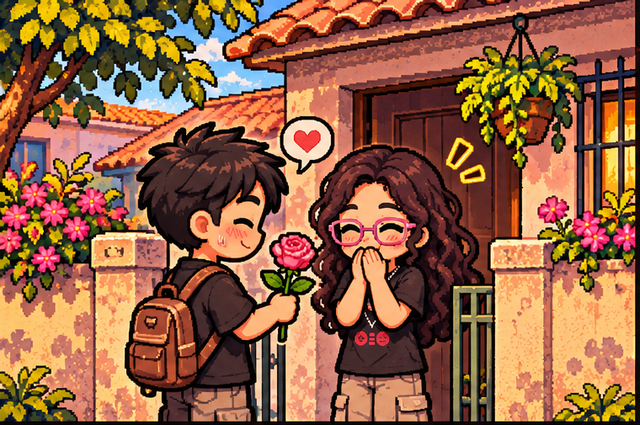
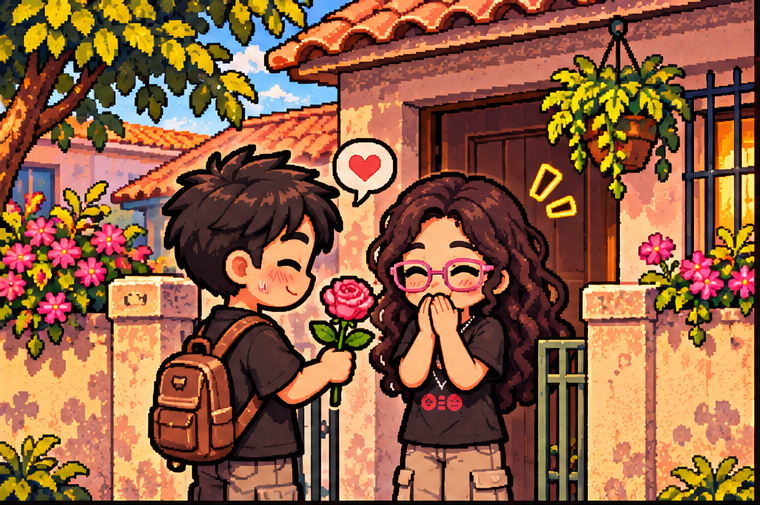
Profundidade nos cenários, cena da mesa ilustrada, viagem de Uber e minigame redesenhados
- Overlays de profundidade: partes do cenário desenhadas na frente de quem
  passa atrás (arco e portão do parque, copas, coreto, postes)
- Coreto: casal dentro do piso, colunas na frente; beijo sem sobreposição
- Mesa da Rota 66 com a ilustração dos dois sentados; Vale Beijo/Abraço e
  chocolates em destaque
- Viagem de Uber: rua de Fragoso rolando, postes, chuva e o carro prata
- Minigame do hambúrguer: balcão, comanda de papel, ingredientes em uma linha
- Avisos não aparecem por cima de telas cheias
- Texturas na UI sem o primeiro quadro recortado (carro inteiro)

Claude-Session: https://claude.ai/code/session_01PDyLU6Huw5amytFREh1vA2

diff --git a/src/ui/styles.css b/src/ui/styles.css
@@ -813,3 +813,130 @@ html, body {
 .item-name { font-family: var(--font-pixel); font-size: clamp(18px, calc(var(--u) * 12), 36px); line-height: 1.05; }
 .item-desc { font-weight: 700; font-size: clamp(12px, calc(var(--u) * 6.5), 20px); color: var(--ink-soft); }
 .item-pop .btn { min-width: 40%; margin-top: calc(var(--u) * 2); }
+
+/* ---------- Viagem (Uber): cena noturna em movimento ---------- */
+.travel-card.tv { z-index: 9; background: #0f0d26; overflow: hidden; display: block; }
+.tv-sky {
+  position: absolute; inset: 0;
+  background:
+    radial-gradient(1px 1px at 12% 18%, #fff8 50%, transparent 51%),
+    radial-gradient(1px 1px at 33% 9%, #fff9 50%, transparent 51%),
+    radial-gradient(1px 1px at 58% 22%, #fff7 50%, transparent 51%),
+    radial-gradient(1px 1px at 81% 12%, #fff9 50%, transparent 51%),
+    radial-gradient(1px 1px at 92% 30%, #fff6 50%, transparent 51%),
+    linear-gradient(#141238, #2a2160 70%, #3b2a6a);
+}
+.tv-city {
+  position: absolute; left: 0; right: 0; top: 8%; height: 62%;
+  background-repeat: repeat-x;
+  background-size: auto 210%;
+  background-position: 0 4%;
+  image-rendering: auto;
+  filter: brightness(0.75) saturate(1.1);
+  animation: tv-scroll 9s linear infinite;
+  mask-image: linear-gradient(transparent, #000 18%);
+}
+@keyframes tv-scroll { from { background-position-x: 0; } to { background-position-x: calc(var(--u) * -680); } }
+.tv-road { position: absolute; left: 0; right: 0; bottom: 0; height: 32%; background: linear-gradient(#3a3946, #2a2933); border-top: calc(var(--u) * 3) solid #8d8576; }
+.tv-lines {
+  position: absolute; left: 0; right: 0; top: 46%; height: calc(var(--u) * 3);
+  background: repeating-linear-gradient(90deg, #f2d36b 0 calc(var(--u) * 22), transparent calc(var(--u) * 22) calc(var(--u) * 44));
+  animation: tv-lines 0.45s linear infinite;
+}
+@keyframes tv-lines { to { background-position-x: calc(var(--u) * -44); } }
+.tv-lamps { position: absolute; inset: 0; pointer-events: none; }
+.tv-lamp {
+  position: absolute; bottom: 31%; width: calc(var(--u) * 3); height: calc(var(--u) * 70);
+  background: #2a2933; animation: tv-lamp 2.2s linear infinite;
+}
+.tv-lamp::before {
+  content: ''; position: absolute; top: calc(var(--u) * -2); left: calc(var(--u) * -6);
+  width: calc(var(--u) * 15); height: calc(var(--u) * 6); border-radius: 40%;
+  background: #ffe9a3; box-shadow: 0 0 calc(var(--u) * 20) calc(var(--u) * 8) rgba(255, 210, 120, 0.45);
+}
+@keyframes tv-lamp { from { left: 110%; } to { left: -10%; } }
+.tv-car {
+  position: absolute; left: 50%; bottom: 13%;
+  width: calc(var(--u) * 150); aspect-ratio: 192 / 128;
+  transform: translateX(-50%);
+  background-size: 400% 100%;
+  background-position: 33.333% 0;
+  image-rendering: pixelated;
+  animation: tv-bump 0.35s ease-in-out infinite;
+  filter: drop-shadow(0 calc(var(--u) * 3) calc(var(--u) * 2) rgba(0, 0, 0, 0.5));
+}
+@keyframes tv-bump { 50% { transform: translate(-50%, calc(var(--u) * -1)); } }
+.tv-rain {
+  position: absolute; inset: 0; pointer-events: none; opacity: 0.55;
+  background-image: repeating-linear-gradient(105deg, transparent 0 calc(var(--u) * 9), rgba(191, 230, 245, 0.55) calc(var(--u) * 9) calc(var(--u) * 9.6));
+  background-size: calc(var(--u) * 40) calc(var(--u) * 40);
+  animation: tv-rain 0.35s linear infinite;
+}
+@keyframes tv-rain { to { background-position: calc(var(--u) * -12) calc(var(--u) * 40); } }
+.tv-label {
+  position: absolute; left: 50%; top: calc(var(--u) * 14); transform: translateX(-50%);
+  font-family: var(--font-pixel); color: var(--ink);
+  font-size: clamp(16px, calc(var(--u) * 11), 34px);
+  padding: calc(var(--u) * 3) calc(var(--u) * 12); white-space: nowrap;
+}
+
+/* ---------- Ilustração de fundo (cenas especiais com diálogo) ---------- */
+#ui .backdrop { position: absolute; inset: 0; z-index: 6; background: #000; opacity: 0; transition: opacity 600ms; pointer-events: none; }
+#ui .backdrop.show { opacity: 1; }
+#ui .backdrop img { width: 100%; height: 100%; object-fit: cover; object-position: 50% 30%; image-rendering: auto; }
+
+/* ---------- Minigame do hambúrguer: layout novo ---------- */
+.bg-panel { width: min(96%, calc(var(--u) * 440)); padding: calc(var(--u) * 4) calc(var(--u) * 6) calc(var(--u) * 5); gap: calc(var(--u) * 3); }
+.bg-title {
+  align-self: center;
+  background: var(--red); color: #fff;
+  padding: calc(var(--u) * 1) calc(var(--u) * 14);
+  border-radius: calc(var(--u) * 2);
+  font-size: clamp(16px, calc(var(--u) * 10), 30px);
+  box-shadow: 0 calc(var(--u) * 1.5) 0 #7a2b3d;
+}
+.bg-main { gap: calc(var(--u) * 5); align-items: stretch; }
+.bg-stage {
+  flex: 1;
+  position: relative;
+  border-radius: calc(var(--u) * 3);
+  background:
+    radial-gradient(ellipse 70% 40% at 50% 15%, rgba(255, 220, 150, 0.35), transparent 70%),
+    linear-gradient(#8c2f2f 0 55%, #6e4526 55% 60%, #b9814f 60% 100%);
+  border: calc(var(--u) * 1) solid var(--border);
+  min-height: calc(var(--u) * 112);
+  display: flex; flex-direction: column; align-items: center; justify-content: flex-end;
+  padding-bottom: calc(var(--u) * 4);
+  overflow: hidden;
+}
+.bg-plate {
+  flex: none; width: 100%; min-height: calc(var(--u) * 88);
+  background: radial-gradient(ellipse 34% 11% at 50% 88%, #f4f0e6 0 75%, #cfc4b0 76% 100%, transparent 101%);
+  padding-bottom: calc(var(--u) * 7);
+}
+.bg-layer { width: calc(var(--u) * 58); margin-top: calc(var(--u) * -24); }
+.bg-msg {
+  position: absolute; top: calc(var(--u) * 4); left: 50%; transform: translateX(-50%);
+  width: 86%; min-height: 0;
+  color: var(--cream); text-shadow: 0 1px 0 #000;
+  font-size: clamp(11px, calc(var(--u) * 6), 19px);
+}
+.bg-msg:empty { display: none; }
+.bg-ticket {
+  flex: 0 0 30%;
+  background: #fffdf6;
+  border: none;
+  border-radius: 0;
+  box-shadow: 0 calc(var(--u) * 2) 0 rgba(0, 0, 0, 0.2);
+  transform: rotate(1.5deg);
+  padding: calc(var(--u) * 5) calc(var(--u) * 5) calc(var(--u) * 8);
+  mask: conic-gradient(from -45deg at bottom, #0000, #000 1deg 89deg, #0000 90deg) 50% / calc(var(--u) * 8) 100%;
+  font-size: clamp(11px, calc(var(--u) * 6), 18px);
+}
+.bg-ticket-head { text-align: center; border-bottom: calc(var(--u) * 0.6) dashed #c9a14a; padding-bottom: calc(var(--u) * 2); margin-bottom: calc(var(--u) * 3); }
+.bg-buttons { grid-template-columns: repeat(10, 1fr); gap: calc(var(--u) * 1.5); }
+.bg-btn { padding: calc(var(--u) * 1.5) calc(var(--u) * 0.5); border-radius: calc(var(--u) * 2); }
+.bg-btn img { max-width: calc(var(--u) * 26); }
+.bg-name { font-size: clamp(8px, calc(var(--u) * 4.2), 13px); }
+.bg-key { font-size: 9px; }
+#ui .toasts { z-index: 7; }

diff --git a/src/regions/piabeta/parque.map.ts b/src/regions/piabeta/parque.map.ts
@@ -42,11 +42,12 @@ const scripts: Record<string, Script> = {
     ctx.objective(Q, 'abrigo');
     await ctx.fadeOut(300);
     ctx.follow('weng', false);
-    ctx.place('player', 12.4, 6.3, 'right');
-    ctx.place('weng', 14.5, 6.3, 'left');
+    // dentro do coreto, no piso, entre as colunas da frente
+    ctx.place('player', 12.2, 5.6, 'right');
+    ctx.place('weng', 14.3, 5.6, 'left');
     await ctx.fadeIn(500);
     ctx.letterbox(true);
-    await ctx.focus(13.45, 6.0, 1.5, 1200);
+    await ctx.focus(13.25, 4.6, 1.5, 1200);
 
     await ctx.say('bella', 'Que chuva é essa?! Do nada!');
     await ctx.say('weng', 'Pelo menos a gente achou o coreto a tempo. Mais ou menos a tempo.');
@@ -66,10 +67,10 @@ const scripts: Record<string, Script> = {
       await ctx.choose('bella', '(...)', ['"Pode."', 'Responder com um sorriso']);
     }
 
-    await Promise.all([ctx.move('player', 13.0, 6.3, 14), ctx.move('weng', 13.9, 6.3, 14)]);
+    await Promise.all([ctx.move('player', 12.68, 5.6, 12), ctx.move('weng', 13.82, 5.6, 12)]);
     ctx.face('player', 'right');
     ctx.face('weng', 'left');
-    await ctx.focus(13.45, 6.0, 2.1, 2200);
+    await ctx.focus(13.25, 4.4, 2.1, 2200);
     ctx.hearts('bella', 14);
     ctx.hearts('weng', 14);
     await ctx.wait(1200);
@@ -185,6 +186,29 @@ export const parqueMap: MapDef = {
     R(545, 640, 605, 725),
     R(950, 650, 1010, 765),
     R(30, 690, 100, 815),
+  ],
+
+  overlays: [
+    // portão e arco de flores
+    { x0: 520, y0: 740, x1: 610, y1: 950, base: 945 },
+    { x0: 868, y0: 740, x1: 958, y1: 950, base: 945 },
+    { x0: 590, y0: 655, x1: 700, y1: 800, base: 930 },
+    { x0: 800, y0: 660, x1: 925, y1: 800, base: 930 },
+    { x0: 660, y0: 645, x1: 830, y1: 715, base: 930 },
+    { x0: 0, y0: 830, x1: 520, y1: 935, base: 930 },
+    { x0: 958, y0: 830, x1: 1536, y1: 935, base: 930 },
+    // copas das árvores
+    { x0: 425, y0: 525, x1: 725, y1: 700, base: 725, ellipse: true },
+    { x0: 830, y0: 520, x1: 1135, y1: 720, base: 765, ellipse: true },
+    { x0: -90, y0: 540, x1: 190, y1: 720, base: 815, ellipse: true },
+    // coreto: telhado e colunas da frente
+    { x0: 505, y0: 30, x1: 845, y1: 205, base: 240 },
+    { x0: 588, y0: 200, x1: 618, y1: 358, base: 350 },
+    { x0: 708, y0: 200, x1: 738, y1: 358, base: 350 },
+    // postes
+    { x0: 385, y0: 520, x1: 450, y1: 640, base: 640 },
+    { x0: 1035, y0: 715, x1: 1085, y1: 862, base: 862 },
+    { x0: 1450, y0: 560, x1: 1510, y1: 682, base: 682 },
   ],
 
   hotspots: [

diff --git a/src/ui/UIManager.ts b/src/ui/UIManager.ts
@@ -120,13 +120,55 @@ class UIManagerImpl {
 
   /** Cartão de viagem (ex.: trajeto de Uber, avião). */
   async travel(label: string, icon = '🚗', ms = 2600): Promise<void> {
-    const card = h('div', { class: 'travel-card' }, h('div', { class: 'car' }, icon), h('div', { class: 'road' }), h('div', { class: 'label' }, label));
+    this.dialogue.close();
+    const car = textureURL('uber-car');
+    const bg = textureURL('map-piabeta-fragoso-bg') ?? textureURL('map-piabeta-rua-bg');
+    const lamps = h('div', { class: 'tv-lamps' }, ...Array.from({ length: 4 }, (_, i) => h('div', { class: 'tv-lamp', style: `animation-delay:${-i * 0.55}s` })));
+    const rain = h('div', { class: 'tv-rain' });
+    const card = h(
+      'div',
+      { class: 'travel-card tv' },
+      h('div', { class: 'tv-sky' }),
+      bg ? h('div', { class: 'tv-city', style: `background-image:url(${bg})` }) : null,
+      lamps,
+      h('div', { class: 'tv-road' }, h('div', { class: 'tv-lines' })),
+      car
+        ? h('div', { class: 'tv-car', style: `background-image:url(${car})` })
+        : h('div', { class: 'car' }, icon),
+      rain,
+      h('div', { class: 'tv-label panel' }, label),
+    );
     this.root.append(card);
     requestAnimationFrame(() => card.classList.add('show'));
     await new Promise((r) => setTimeout(r, ms));
     card.classList.remove('show');
     await new Promise((r) => setTimeout(r, 500));
     card.remove();
+  }
+
+  private backdropEl: HTMLElement | null = null;
+
+  /** Ilustração de fundo em tela cheia, com os diálogos por cima. null remove. */
+  async backdrop(key: string | null): Promise<void> {
+    if (!key) {
+      const el = this.backdropEl;
+      this.backdropEl = null;
+      if (!el) return;
+      el.classList.remove('show');
+      await new Promise((r) => setTimeout(r, 600));
+      el.remove();
+      this.hud.el.classList.remove('hidden');
+      return;
+    }
+    const url = textureURL(key);
+    if (!url) return;
+    const el = h('div', { class: 'backdrop' }, h('img', { src: url, alt: '' }));
+    this.backdropEl?.remove();
+    this.backdropEl = el;
+    this.root.append(el);
+    this.hud.el.classList.add('hidden');
+    requestAnimationFrame(() => el.classList.add('show'));
+    await new Promise((r) => setTimeout(r, 700));
   }
 
   /** Ilustração em tela cheia com legendas; cada legenda avança com interagir/toque. */

diff --git a/src/regions/piabeta/rota66.map.ts b/src/regions/piabeta/rota66.map.ts
@@ -79,13 +79,9 @@ const scripts: Record<string, Script> = {
       await ctx.say('bella', 'Nossa mesinha. Ainda tem migalha de batata aqui.');
       return;
     }
-    await ctx.fadeOut(400);
+    // Cena da mesa: ilustração dos dois sentados, diálogos por cima.
     ctx.follow('weng', false);
-    ctx.place('player', 1.9, 11.7, 'right');
-    ctx.place('weng', 5.0, 11.7, 'left');
-    await ctx.fadeIn(400);
-    ctx.letterbox(true);
-    await ctx.focus(3.5, 10.9, 1.35, 800);
+    await ctx.backdrop('memory-pia-02');
     await ctx.narrate('Os lanches chegam. O cheiro é incrível. O nervosismo também.');
     await ctx.say('weng', 'E aí? Aprovado?');
     const c1 = await ctx.choose('bella', '(Primeira mordida...)', ['"Melhor hambúrguer da minha vida."', '"Hmm... preciso de mais uma mordida pra decidir."', 'Fazer um joinha de boca cheia']);
@@ -100,7 +96,8 @@ const scripts: Record<string, Script> = {
     await ctx.emote('weng', 'question');
     ctx.take('vale-beijo');
     ctx.take('chocolates');
-    ctx.sfx('pickup');
+    await ctx.showItem('vale-beijo', 'Você deu para o Weng', 'Vale Beijo & Vale Abraço', 'Feitos à mão. Válidos por tempo indeterminado.');
+    await ctx.showItem('chocolates', 'Você deu para o Weng', 'Chocolates', 'Um montão deles. O de morango já tem dono.');
     await ctx.say('weng', '...Chocolates! Um monte de chocolates! E isso aqui é... um Vale Beijo? E um Vale Abraço?!');
     await ctx.emote('weng', 'heart');
     const cg = await ctx.choose('bella', '(Ele tá olhando os vales sem piscar...)', ['"Válidos por tempo indeterminado."', '"Os chocolates são pra dividir, tá?"', '"Gostou? Fui eu que fiz."']);
@@ -126,13 +123,10 @@ const scripts: Record<string, Script> = {
     await ctx.say('weng', 'Ei... quer dar uma volta depois? A gente pode ir andando por Fragoso até o parque.');
     await ctx.say('bella', 'Quero. Acho que uma caminhada vai me fazer bem.');
     await ctx.give('burger-rota66');
-    await ctx.unfocus(700);
-    ctx.letterbox(false);
-    await ctx.fadeOut(400);
     ctx.place('player', 3.7, 13.4, 'down');
     ctx.place('weng', 5.8, 13.4, 'down');
     ctx.follow('weng', true);
-    await ctx.fadeIn(400);
+    await ctx.backdrop(null);
     ctx.objective(Q, 'mesa');
   },
 

diff --git a/src/world/MapBuilder.ts b/src/world/MapBuilder.ts
@@ -90,6 +90,22 @@ export function buildMap(scene: Phaser.Scene, def: MapDef): BuiltMap {
     return { def: p, sprite, block };
   });
 
+  // Profundidade: recortes do cenário na frente de quem está "atrás" deles.
+  if (hasArt && def.art === 'native') {
+    // O cenário em public/ tem 2/3 da resolução do original (art-source).
+    const toTex = (v: number) => (v * 2) / 3;
+    for (const o of def.overlays ?? []) {
+      const img = scene.add.image(0, 0, bgKey).setOrigin(0).setScale(1 / RENDER_SCALE);
+      img.setCrop(toTex(o.x0), toTex(o.y0), toTex(o.x1 - o.x0), toTex(o.y1 - o.y0));
+      img.setDepth(o.base / 3);
+      if (o.ellipse) {
+        const g = scene.make.graphics({}, false);
+        g.fillStyle(0xffffff).fillEllipse((o.x0 + o.x1) / 6, (o.y0 + o.y1) / 6, (o.x1 - o.x0) / 3, (o.y1 - o.y0) / 3);
+        img.setMask(g.createGeometryMask());
+      }
+    }
+  }
+
   for (const b of def.blocks ?? []) {
     const r = tileRect(b);
     solids.add(scene.add.zone(r.centerX, r.centerY, r.width, r.height));

diff --git a/src/world/MapTypes.ts b/src/world/MapTypes.ts
@@ -94,6 +94,12 @@ export interface MapDef {
   props?: PropPlacement[];
   /** Colisões extras em retângulos (unidades de tile, fracionários). Ideal para cenários pintados. */
   blocks?: TileRect[];
+  /**
+   * Profundidade em cenários pintados: recortes do próprio cenário redesenhados
+   * NA FRENTE dos personagens que estiverem acima (atrás) da linha `base`.
+   * Coordenadas em pixels da imagem ORIGINAL (art-source). `ellipse` recorta em oval (copas).
+   */
+  overlays?: { x0: number; y0: number; x1: number; y1: number; base: number; ellipse?: boolean }[];
   /** Interações invisíveis sobre o cenário. */
   hotspots?: HotspotDef[];
   /**

diff --git a/src/core/script.ts b/src/core/script.ts
@@ -61,6 +61,8 @@ export interface ScriptContext {
   prop(id: string, key: string, tx: number, ty: number, frame?: number): void;
   moveProp(id: string, tx: number, ty: number, ms: number): Promise<void>;
   removeProp(id: string): void;
+  /** Ilustração de fundo em tela cheia; os diálogos continuam por cima. null remove. */
+  backdrop(key: string | null): Promise<void>;
   /** Ilustração em tela cheia com legendas (avança com interagir). */
   illustration(key: string, lines: string[]): Promise<void>;
   /**

diff --git a/src/ui/components/Toasts.ts b/src/ui/components/Toasts.ts
@@ -9,6 +9,11 @@ export class Toasts {
   }
 
   show(text: string, icon?: string): void {
+    // Não aparece por cima de telas cheias (minigame, memória, item): espera fechar.
+    if (document.querySelector('#ui .screen')) {
+      setTimeout(() => this.show(text, icon), 600);
+      return;
+    }
     const url = textureURL(icon);
     const t = h('div', { class: 'toast panel' }, url ? h('img', { src: url, alt: '' }) : null, text);
     this.el.append(t);

diff --git a/src/ui/screens/BurgerGame.ts b/src/ui/screens/BurgerGame.ts
@@ -67,8 +67,7 @@ export function playBurgerGame(parent: HTMLElement, opts: BurgerOptions): Promis
       'div',
       { class: 'bg-panel panel' },
       h('div', { class: 'bg-title' }, opts.title),
-      h('div', { class: 'bg-main' }, ticket, plate),
-      msg,
+      h('div', { class: 'bg-main' }, h('div', { class: 'bg-stage' }, plate, msg), ticket),
       buttons,
       actions,
     );

diff --git a/src/systems/ScriptRunner.ts b/src/systems/ScriptRunner.ts
@@ -189,6 +189,7 @@ export function createScriptContext(scene: GameScene): ScriptContext {
       scene.tempProps.delete(id);
     },
     illustration: (key, lines) => UI.illustration(key, lines),
+    backdrop: (key) => UI.backdrop(key),
 
     nerves(value, message) {
       const v = Math.max(0, Math.min(100, Math.round(value)));

diff --git a/src/ui/textures.ts b/src/ui/textures.ts
@@ -12,7 +12,7 @@ export function textureURL(key: string | undefined): string | null {
   if (!key || !game || !game.textures.exists(key)) return null;
   let url = cache.get(key);
   if (!url) {
-    url = game.textures.getBase64(key);
+    url = game.textures.getBase64(key, '__BASE');
     cache.set(key, url);
   }
   return url;

diff --git a/src/main.ts b/src/main.ts
@@ -76,4 +76,4 @@ document.addEventListener('visibilitychange', () => {
 });
 
 // Acesso de depuração no console: window.bw
-(window as unknown as { bw: unknown }).bw = { game, GameState, SaveSystem };
+(window as unknown as { bw: unknown }).bw = { game, GameState, SaveSystem, UI };
